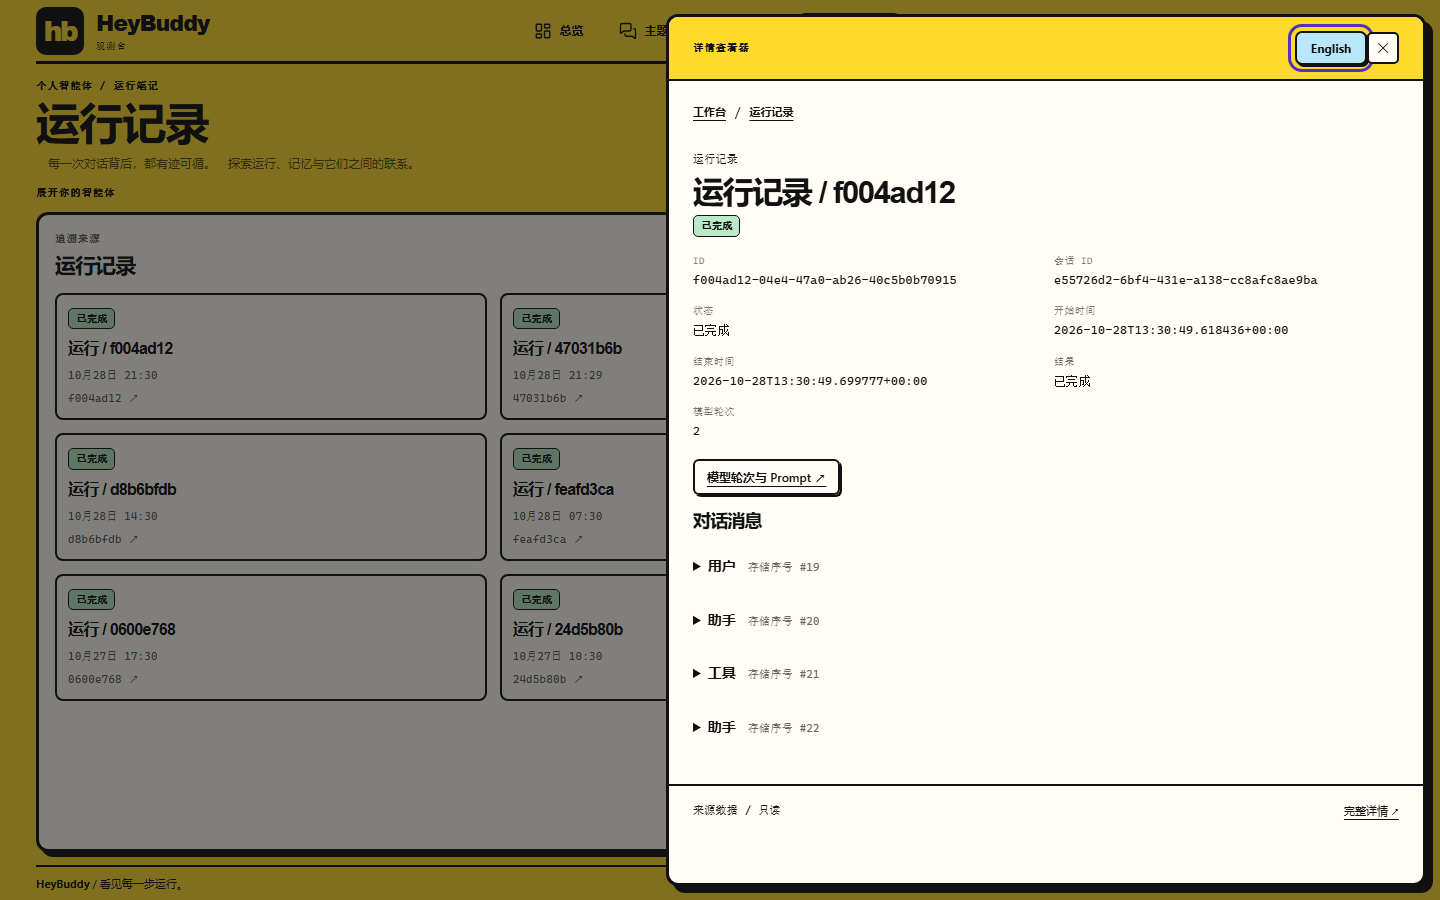
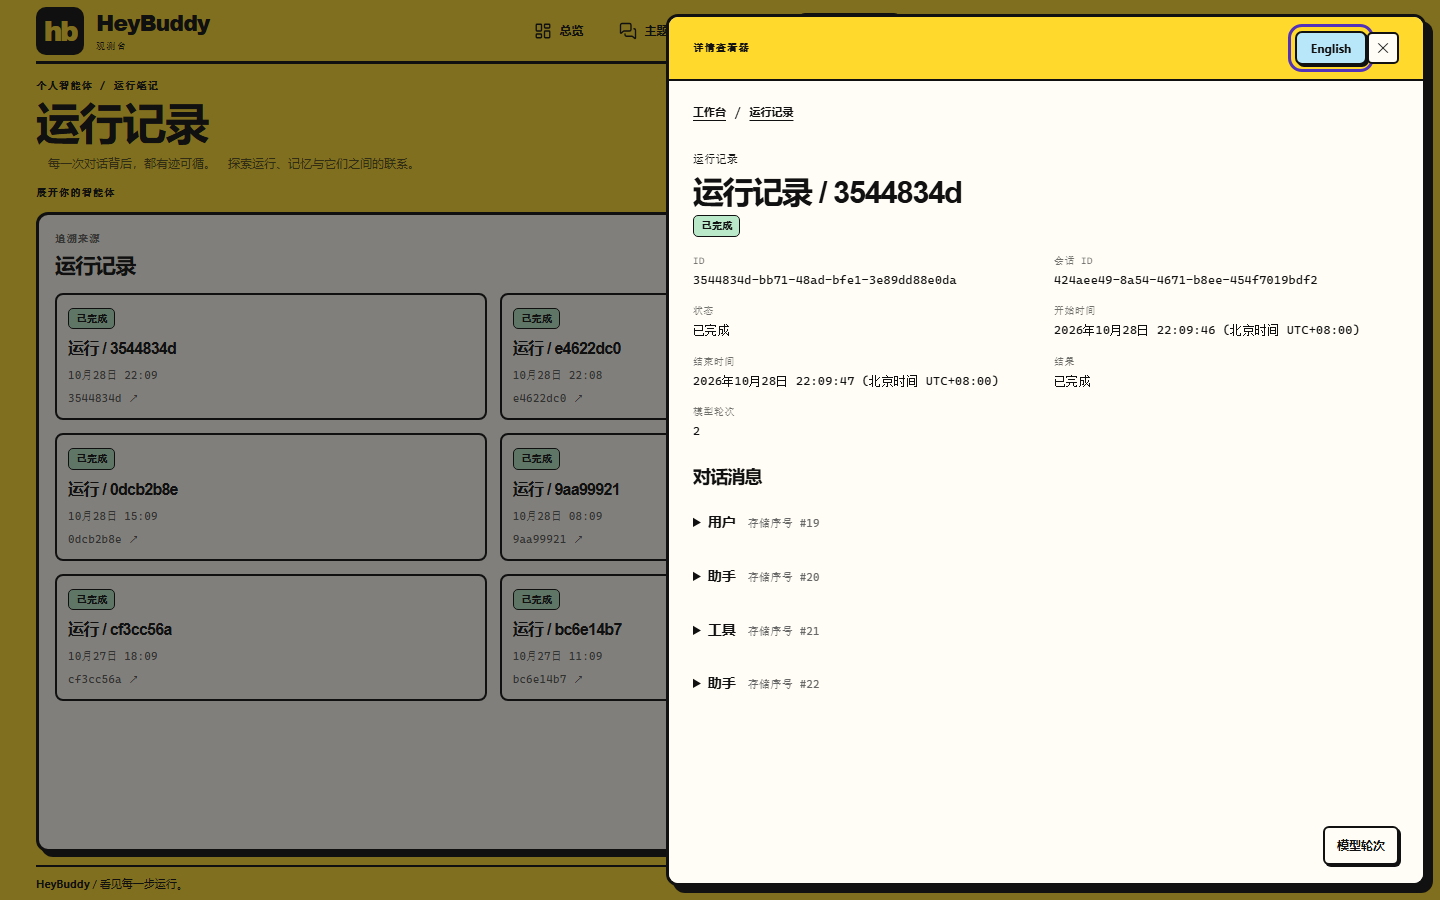
fix: 简化详情时间与模型轮次入口
- 将详情时间显示为本地年月日、时分秒和时区偏移，并跟随中英文切换
- 将模型轮次入口固定到运行详情右下角，删除来源与完整详情底栏
- 更新文档和合成截图，离线回归 803 通过、2 跳过，Ruff、构建和浏览器检查通过

diff --git a/src/personal_agent/dashboard/static/inspectors.js b/src/personal_agent/dashboard/static/inspectors.js
@@ -11,7 +11,8 @@ import { get } from "./components.js";
 import { timeline } from "./monitor.js";
 import { modelRounds } from "./model-rounds.js";
 const dialog = document.getElementById("inspector"),
-  body = document.getElementById("inspector-body");
+  body = document.getElementById("inspector-body"),
+  actions = document.getElementById("inspector-actions");
 const kinds = new Set([
   "threads",
   "episodes",
@@ -59,6 +60,8 @@ dialog.addEventListener("click", (event) => {
 });
 async function route() {
   const version = ++requestVersion;
+  actions.replaceChildren();
+  actions.hidden = true;
   if (!location.hash.startsWith("#inspect/")) {
     path = [];
     if (dialog.open) dialog.close();
@@ -82,11 +85,6 @@ async function route() {
   }
   dialog.classList.toggle("full", query === "full=1");
   if (!dialog.open) dialog.showModal();
-  document.getElementById("full-view").href = hash + (query ? "" : "?full=1");
-  bindText(
-    document.getElementById("full-view"),
-    query ? "Drawer view ↙" : "Full detail view ↗",
-  );
   const crumbs = document.getElementById("breadcrumbs");
   crumbs.replaceChildren(action(ui("Workspace"), close));
   path.forEach(([kind, id], index) => {
@@ -142,13 +140,19 @@ async function route() {
         openObject,
       );
     } else if (kind === "rounds") {
-      title = ui("Model rounds & prompts");
+      title = ui("Model rounds");
       await modelRounds(result, id, openObject);
     } else title = await objectDetail(kind, id, result, openObject);
     if (version !== requestVersion) return;
     writeText(document.getElementById("inspector-title"), title);
     body.replaceChildren(result);
-    dialog.scrollTop = 0;
+    body.scrollTop = 0;
+    if (kind === "runs") {
+      const rounds = node("a", "action-button", ui("Model rounds"));
+      rounds.href = `/runs#inspect/rounds/${encodeURIComponent(id)}?full=1`;
+      actions.append(rounds);
+      actions.hidden = false;
+    }
   } catch (error) {
     if (version === requestVersion) {
       bindText(document.getElementById("inspector-title"), "Unavailable");

diff --git a/src/personal_agent/dashboard/static/i18n.js b/src/personal_agent/dashboard/static/i18n.js
@@ -15,6 +15,36 @@ const english = await fetch("/static/en.json")
 export function locale() {
   return language;
 }
+export function timestamp(value) {
+  const date = value ? new Date(value) : new Date(NaN);
+  if (Number.isNaN(date.getTime())) return translate("Unavailable");
+  const pad = (n) => String(n).padStart(2, "0");
+  const day =
+    language === "en"
+      ? `${date.getFullYear()}-${pad(date.getMonth() + 1)}-${pad(date.getDate())}`
+      : `${date.getFullYear()}年${date.getMonth() + 1}月${date.getDate()}日`;
+  const clock = `${pad(date.getHours())}:${pad(date.getMinutes())}:${pad(date.getSeconds())}`;
+  const offset = -date.getTimezoneOffset();
+  const utc = `UTC${offset >= 0 ? "+" : "-"}${pad(Math.floor(Math.abs(offset) / 60))}:${pad(Math.abs(offset) % 60)}`;
+  const beijing = ["Asia/Shanghai", "Asia/Chongqing"].includes(
+    Intl.DateTimeFormat().resolvedOptions().timeZone,
+  );
+  const zone =
+    language === "en"
+      ? beijing
+        ? "Beijing time"
+        : "Local time"
+      : beijing
+        ? "北京时间"
+        : "本地时间";
+  return `${day} ${clock} (${zone} ${utc})`;
+}
+export function bindTimestamp(element, value) {
+  element.dataset.timestamp = value;
+  element.dateTime = value;
+  element.textContent = timestamp(value);
+  return element;
+}
 export function translate(source) {
   source = String(source);
   if (language === "en") return english[source] || source;
@@ -107,6 +137,8 @@ function update() {
     if (bindings.has(element))
       element.textContent = translate(bindings.get(element));
   }
+  for (const element of document.querySelectorAll("[data-timestamp]"))
+    element.textContent = timestamp(element.dataset.timestamp);
   for (const button of document.querySelectorAll("[data-language-toggle]")) {
     button.textContent = language === "en" ? "中文" : "English";
     button.setAttribute(

diff --git a/src/personal_agent/dashboard/static/components.js b/src/personal_agent/dashboard/static/components.js
@@ -1,4 +1,4 @@
-import { ui, writeText, locale } from "./i18n.js";
+import { ui, writeText, locale, bindTimestamp } from "./i18n.js";
 // Untrusted text enters the DOM through textContent, never HTML interpolation.
 export function node(tag, className = "", text = "") {
   const element = document.createElement(tag);
@@ -106,19 +106,20 @@ export function metadata(data, keys) {
   for (const key of keys) {
     if (data[key] === undefined) continue;
     const row = node("div");
-    row.append(
-      node("dt", "", ui(key.replaceAll("_", " "))),
-      node(
-        "dd",
-        "mono",
+    const value = node("dd", "mono");
+    if (key.endsWith("_at") && data[key] != null)
+      value.append(bindTimestamp(node("time"), data[key]));
+    else
+      writeText(
+        value,
         data[key] == null
           ? ui("Unavailable")
           : ["status", "state", "kind", "outcome"].includes(key) ||
               typeof data[key] === "boolean"
             ? ui(data[key])
             : data[key],
-      ),
-    );
+      );
+    row.append(node("dt", "", ui(key.replaceAll("_", " "))), value);
     list.append(row);
   }
   return list;

diff --git a/src/personal_agent/dashboard/static/observatory.css b/src/personal_agent/dashboard/static/observatory.css
@@ -665,6 +665,16 @@ footer {
 .inspector::backdrop {
   background: #1118;
 }
+.inspector[open] {
+  display: flex;
+  flex-direction: column;
+  overflow: hidden;
+}
+.drawer-toolbar,
+.drawer-heading,
+.breadcrumbs {
+  flex-shrink: 0;
+}
 .drawer-toolbar {
   display: flex;
   align-items: center;
@@ -704,6 +714,9 @@ footer {
 }
 .inspector-body {
   padding: 0 24px 24px;
+  flex: 1 1 auto;
+  min-height: 0;
+  overflow: auto;
 }
 .inspector-body p {
   overflow-wrap: anywhere;
@@ -711,12 +724,16 @@ footer {
 .inspector-body .nested-grid {
   grid-template-columns: repeat(2, minmax(0, 1fr));
 }
-.drawer-footer {
-  padding: 16px 24px;
-  margin: 0;
+.inspector-actions:not([hidden]) {
+  display: flex;
+  justify-content: flex-end;
+  flex: 0 0 auto;
+  padding: 12px 24px 18px;
+  background: var(--surface);
 }
-.drawer-footer a {
-  font-size: 11px;
+.inspector-actions a {
+  display: inline-block;
+  text-decoration: none;
 }
 .inspector.full {
   width: calc(100vw - 28px);

diff --git a/src/personal_agent/dashboard/templates/components/drawer.html b/src/personal_agent/dashboard/templates/components/drawer.html
@@ -34,15 +34,5 @@
     </h2>
   </div>
   <div id="inspector-body" class="inspector-body"></div>
-  <footer class="drawer-footer">
-    <span class="mono"
-      ><span data-i18n="SOURCE DATA / READ ONLY"
-        >{{ ui("SOURCE DATA / READ ONLY") }}</span
-      ></span
-    ><a id="full-view" href="#"
-      ><span data-i18n="Full detail view ↗"
-        >{{ ui("Full detail view ↗") }}</span
-      ></a
-    >
-  </footer>
+  <div id="inspector-actions" class="inspector-actions" hidden></div>
 </dialog>

diff --git a/src/personal_agent/dashboard/static/details.js b/src/personal_agent/dashboard/static/details.js
@@ -174,9 +174,6 @@ export async function objectDetail(kind, id, target, open) {
       open,
     );
   } else if (kind === "runs") {
-    const rounds = node("a", "action-button", ui("Model rounds & prompts ↗"));
-    rounds.href = `/runs#inspect/rounds/${encodeURIComponent(id)}?full=1`;
-    target.append(rounds);
     section(target, "Messages");
     await messages(target, id, 0);
   } else if (kind === "jobs") {

diff --git a/tests/test_dashboard_language.py b/tests/test_dashboard_language.py
@@ -30,7 +30,7 @@ async def test_initial_html_is_chinese_without_waiting_for_javascript(observator
     assert 'lang="zh-CN"' in response.text
     assert (await client.get("/static/i18n.js")).status_code == 200
     catalog = (await client.get("/static/zh-CN.json")).json()
-    assert catalog["Model rounds & prompts ↗"] == "模型轮次与 Prompt ↗"
+    assert catalog["Model rounds"] == "模型轮次"
     assert store._connection.total_changes == before and not provider.requests
 
 

diff --git a/docs/modules/dashboard.md b/docs/modules/dashboard.md
@@ -72,6 +72,10 @@ CSS 使 `.shell` 占据 `100dvh`，以 flex 给页头、精简标题和页脚预
 
 ## 消息列表与模型轮次
 
+详情元数据的 `*_at` 字段由 `components.js:metadata` 创建语义化 time 元素，`i18n.js:bindTimestamp/timestamp` 按浏览器本地时区格式化到秒，标出 UTC 偏移；中国上海时区显示“北京时间”，其他时区显示“本地时间”。例如 `2026-10-28T14:00:21.301813+00:00` 在上海显示 `2026年10月28日 22:00:21 (北京时间 UTC+08:00)`。datetime 属性与接口原值保持不变，切换中英文时更新已绑定时间的显示，不改变快照/消息正文。
+
+Inspector 删除原“来源数据 / 只读、完整详情”底栏及 full-view 控件。`inspectors.js:route` 仅在运行详情加载成功后给 `inspector-actions` 填入“模型轮次”链接，切换对象、关闭、加载或失败时清空隐藏。Dialog 使用纵向 flex，将滚动限制到 `inspector-body`，按钮始终位于详情右下角；模型轮次仍通过 `?full=1` 完整视图打开，其他详情无底部空栏。
+
 运行详情自动加载一页消息，用户、助手、工具名称作为主要标题，`sequence` 以“存储序号 #n”次要标注。它是整个 Conversation 中包含工具消息的稳定顺序，不表示助手调用轮次。单条正文保持原生 details 折叠，后续消息仍用有界分页。原隐私说明和总展开按钮已删除，hb 标记上的星形装饰也已移除。
 
-“模型轮次与 Prompt”链接进入 `/runs#inspect/rounds/{id}?full=1` 的完整详情视图，可直接刷新。`inspectors.js` 分派给 `model-rounds.js:modelRounds`，先读轮次元数据，按需读取输入/返回快照。输入包含调用当时的 Base、动态注入、选中历史、当前 Run 消息、工具定义和输出上限；时间、耗时与 token 数独立展示，正文不随语言切换改变。快照分段读取、错误可重试，后续轮次有界分页。旧 Run 缺失时显示明确空态，不按当前 Memory 伪造历史。保存路径及边界见[模型调用审计](tracing.md)。
+运行详情右下角的“模型轮次”链接进入 `/runs#inspect/rounds/{id}?full=1` 的完整详情视图，可直接刷新。`inspectors.js` 分派给 `model-rounds.js:modelRounds`，先读轮次元数据，按需读取输入/返回快照。输入包含调用当时的 Base、动态注入、选中历史、当前 Run 消息、工具定义和输出上限；时间、耗时与 token 数独立展示，正文不随语言切换改变。快照分段读取、错误可重试，后续轮次有界分页。旧 Run 缺失时显示明确空态，不按当前 Memory 伪造历史。保存路径及边界见[模型调用审计](tracing.md)。

diff --git a/docs/observatory.md b/docs/observatory.md
@@ -147,3 +147,11 @@ Memory 路径复用已有穿越、Symlink/Junction、Hardlink 防护；Dashboard
 [消息列表（合成数据）](images/observatory-messages-synthetic.png) · [模型轮次（合成数据）](images/observatory-model-rounds-synthetic.png)。
 
 本轮验证：完整离线回归 803 passed、2 skipped；Ruff 检查/格式检查、`uv build --offline` 与 CLI `--help` 通过。构建遇到系统 C 盘空间不足后改用工作区 D 盘临时目录完成，不清理用户文件。隔离安装 Wheel 的 19 个页面/API/资源请求及 schema 14 检查通过。Edge 验证默认消息折叠、旧按钮/说明删除、轮次完整视图、输入/返回按需读取、Prompt 分页、第二轮工具证据、语言切换保持正文、刷新、桌面/手机宽度和旧 Run 空态，无 JavaScript 异常。仅使用合成数据和 FakeProvider，未调用付费模型。
+
+## 时间可读性与详情布局
+
+详情时间改为本地年月日、24 小时制时分秒和明确时区偏移。`2026-10-28T14:00:21.301813+00:00` 表示 UTC 的 14:00:21，在上海显示 `2026年10月28日 22:00:21 (北京时间 UTC+08:00)`。中英文切换更新显示，原始时间和审计正文保持不变。
+
+运行详情的入口及轮次视图标题统一改为“模型轮次”。入口固定在右下角，正文区域独立滚动；其他对象不显示此按钮。删除原“来源数据 / 只读、完整详情”整行，轮次仍直接进入完整视图。
+
+本轮离线回归 803 passed、2 skipped，Ruff 检查/格式检查与离线构建通过。合成 Edge 验证上海与纽约时区的示例换算、中英文日期更新、消息滚动后按钮可见、底栏删除、模型轮次入口/返回/分页及桌面和手机横竖屏布局，无 JavaScript 异常。上方消息和轮次截图已更新为合成数据的新布局。

diff --git a/docs/modules/tracing.md b/docs/modules/tracing.md
@@ -1,4 +1,4 @@
-# 主 Agent 模型轮次与 Prompt 审计
+# 主 Agent 模型轮次 审计
 
 ## 职责与架构组成
 
@@ -25,4 +25,4 @@
 
 ## 阅读与验证
 
-离线最小示例运行 `uv run pytest tests/test_model_rounds.py -q`。测试通过 SessionManager、Agent、FakeProvider 和原生工具执行一次两轮加法，逐轮比较快照与 FakeProvider 实际收到的内部消息/工具定义，并验证末轮工具为空、tool call_id、token 用量、正文分页、失败/取消、写库失败阻止请求、跨 Agent 隔离、超限和 schema 13→14 原子迁移。页面入口为运行详情的“模型轮次与 Prompt”，支持完整宽度、刷新、返回与中英文切换，无真实模型调用。
+离线最小示例运行 `uv run pytest tests/test_model_rounds.py -q`。测试通过 SessionManager、Agent、FakeProvider 和原生工具执行一次两轮加法，逐轮比较快照与 FakeProvider 实际收到的内部消息/工具定义，并验证末轮工具为空、tool call_id、token 用量、正文分页、失败/取消、写库失败阻止请求、跨 Agent 隔离、超限和 schema 13→14 原子迁移。页面入口为运行详情的“模型轮次”，支持完整宽度、刷新、返回与中英文切换，无真实模型调用。
